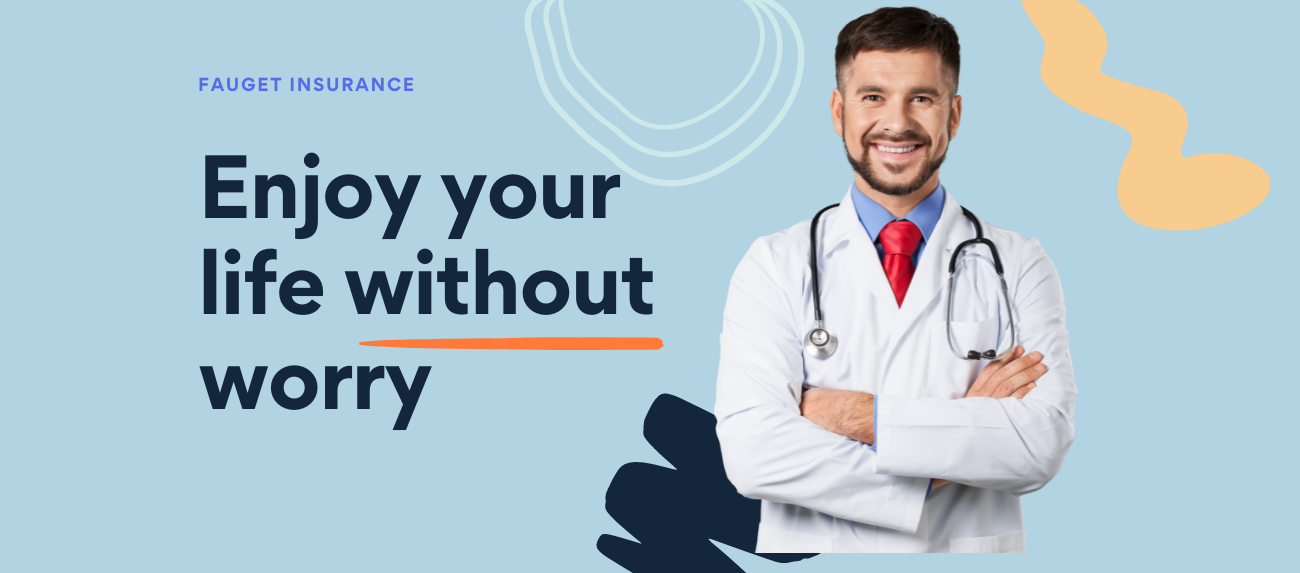
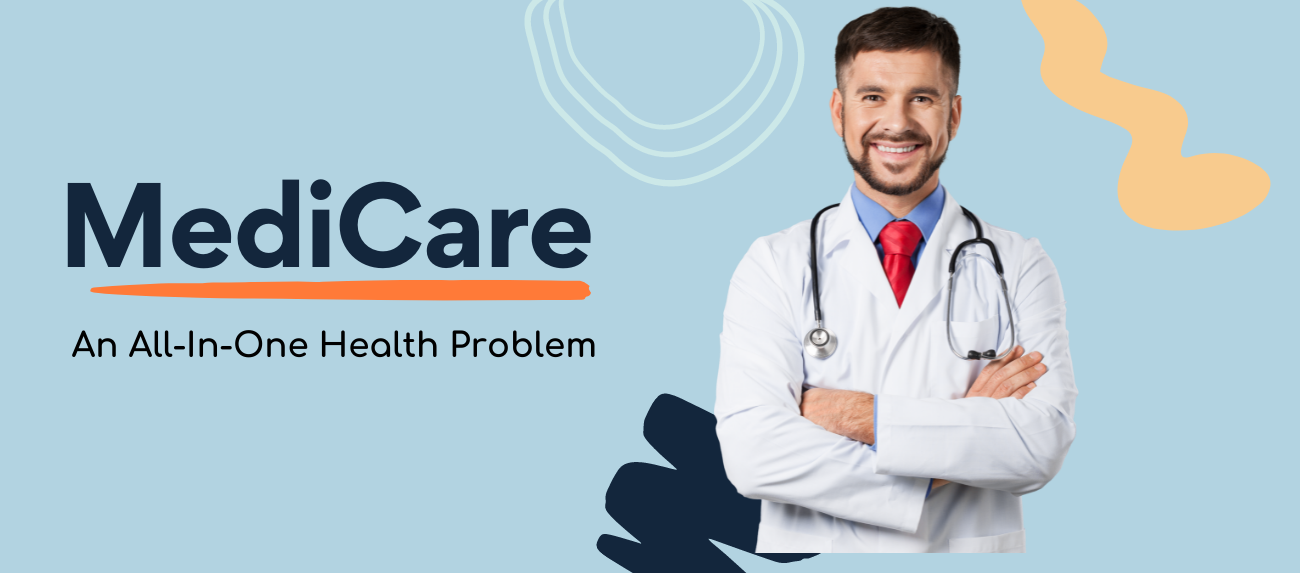
Added new images

Changed region(s): [[0.0308, 0.267, 0.5231, 0.7417], [0.1538, 0.1187, 0.3077, 0.178]]

diff --git a/src/components/Home/HomePageHeader.jsx b/src/components/Home/HomePageHeader.jsx
@@ -1,86 +1,25 @@
 import React from "react";
 import styled from "styled-components";
-
+import HomePageSlider from "./HomePageSlider"
 const Container = styled.div`
-  width: 100%;
+width: 100%;
   height: 80vh;
-  background-image: url("https://www.cpajournal.com/wp-content/uploads/2019/02/GettyImages-1001713236-730x330.jpg");
-  background-size: cover;
-  margin-bottom: 10px;
   display: flex;
   justify-content: space-around;
   align-items: center;
-  .left {
-    height: 100%;
-    width: 60%;
-    display: flex;
-    flex-direction: column;
-    justify-content: center;
-    align-items: center;
-    font-size: 1.5rem;
-    font-weight: 700;
-    color: green;
-    h1 {
-      margin: 0;
-    }
-  }
-  .right {
-    width: 40%;
-    height: 100%;
-    display: flex;
-    flex-direction: column;
-    justify-content: center;
-    align-items: flex-start;
-    a {
-      text-decoration: none;
-      color: darkgreen;
-      background-color: white;
-      width: 200px;
-      height: 60px;
-      border-radius: 40px;
-      font-weight: bolder;
-      display: flex;
-      justify-content: center;
-      align-items: center;
-      font-size: 1.5rem;
-      box-shadow: 0 0 0 1px pink;
-    }
-  }
-  @media (max-width: 768px) {
-    width: 100%;
-    flex-direction: column;
-    .left {
-      width: 100%;
-      height: 50%;
-      justify-content: flex-end;
-      font-size: 1rem;
-    }
-    .right {
-      width: 100%;
-      height: 50%;
-      align-items: center;
-      justify-content: flex-start;
-      padding: 3rem 0;
-      font-size: 1rem;
-      a {
-        width: 150px;
-        height: 45px;
-        font-size: 1rem;
-      }
-    }
-  }
-`;
+  `;
 
 function HomePageHeader() {
   return (
     <Container>
-      <div className="left">
+    {/* <HomePageSlider /> */}
+      {/* <div className="left">
         <h1>MediCare</h1>
         <small>An all-in-one health platform.</small>
       </div>
       <div className="right">
         <a href="/">Know More</a>
-      </div>
+      </div> */}
     </Container>
   );
 }

diff --git a/src/components/Home/HomePageSlider.jsx b/src/components/Home/HomePageSlider.jsx
@@ -1,5 +1,6 @@
 import React from 'react';
 import { Carousel } from 'react-bootstrap';
+import styled from "styled-components";
 
 import image1 from './SliderImages/slider1.png';
 import image2 from './SliderImages/slider2.png';
@@ -7,7 +8,7 @@ import image3 from './SliderImages/slider3.png';
 
 export default function HomePageSlider() {
     return (
-        <Carousel fade={true}>
+        <Carousel fade={true} className='carousel'>
         <Carousel.Item interval={3000}>
           <img
             className="d-block w-100"

diff --git a/src/components/Home/Homepage.jsx b/src/components/Home/Homepage.jsx
@@ -3,7 +3,7 @@ import styled from "styled-components";
 
 // components
 import HomePageBody from "./HomePageBody";
-import HomePageHeader from "./HomePageHeader";
+// import HomePageHeader from "./HomePageHeader";
 import HomePageSlider from "./HomePageSlider";
 
 const Container = styled.div``;
@@ -11,7 +11,7 @@ const Container = styled.div``;
 function HomePage() {
   return (
     <Container>
-      <HomePageHeader />
+      {/* <HomePageHeader /> */}
       <HomePageSlider />
       <HomePageBody />
     </Container>
